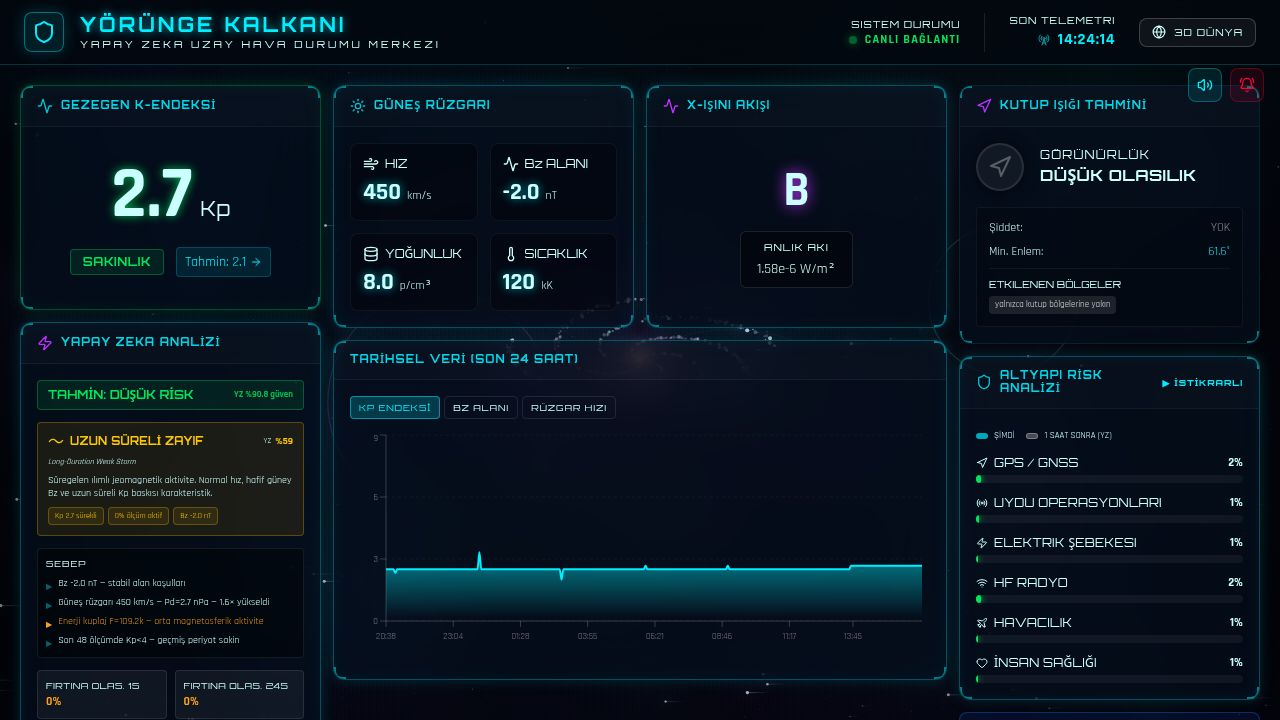
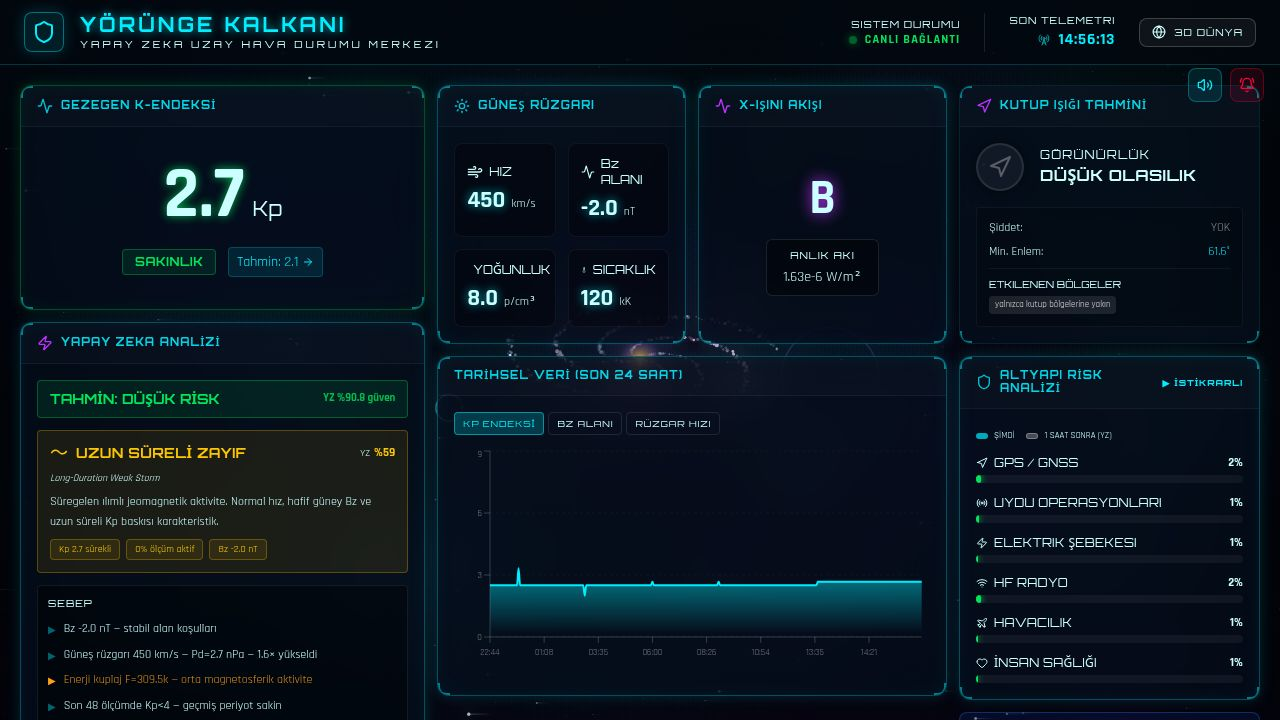
Improve readability of AI analysis panel with larger fonts and layout adjustments
Update component styling in `cards.tsx` and adjust column layout in `dashboard.tsx` to increase font sizes, spacing, and overall element visibility within the AI analysis panel.

Replit-Commit-Author: Agent
Replit-Commit-Session-Id: cfda8668-f596-4185-8b24-98a78a095a4d
Replit-Commit-Checkpoint-Type: full_checkpoint
Replit-Commit-Event-Id: 67d90009-9749-4acd-994e-57ad0d61335b
Replit-Commit-Screenshot-Url: https://storage.googleapis.com/screenshot-production-us-central1/c0614633-7700-43db-afbc-a75336ac5f31/cfda8668-f596-4185-8b24-98a78a095a4d/0QgoxcI
Replit-Helium-Checkpoint-Created: true

diff --git a/artifacts/orbitshield/src/components/dashboard/cards.tsx b/artifacts/orbitshield/src/components/dashboard/cards.tsx
@@ -459,12 +459,12 @@ function generateReasons(
 function PhysiBar({ label, pct, lvl }: { label: string; pct: number; lvl: string }) {
   const bar = lvl === "danger" ? "bg-danger" : lvl === "warning" ? "bg-warning" : "bg-success";
   return (
-    <div className="flex items-center gap-1.5">
-      <span className="text-[9px] font-mono text-muted-foreground w-[72px] shrink-0 truncate">{label}</span>
-      <div className="flex-1 h-1 bg-white/8 rounded-full overflow-hidden">
+    <div className="flex items-center gap-2">
+      <span className="text-[10px] font-mono text-muted-foreground w-[72px] shrink-0 truncate">{label}</span>
+      <div className="flex-1 h-[5px] bg-white/8 rounded-full overflow-hidden">
         <div className={cn("h-full rounded-full", bar)} style={{ width: `${Math.min(100, pct * 100)}%` }} />
       </div>
-      <span className={cn("text-[9px] font-mono w-8 text-right shrink-0",
+      <span className={cn("text-[10px] font-mono w-8 text-right shrink-0",
         lvl === "danger" ? "text-danger" : lvl === "warning" ? "text-warning" : "text-success"
       )}>{(pct * 100).toFixed(0)}%</span>
     </div>
@@ -521,45 +521,45 @@ export function AiInsightCard({
 
         {/* ── Tahmin header ────────────────────────────────────────── */}
         <div className={cn(
-          "flex items-center justify-between rounded px-2.5 py-1.5 border text-xs font-display font-bold",
+          "flex items-center justify-between rounded px-3 py-2 border text-sm font-display font-bold",
           riskHeaderColor
         )}>
           <span>TAHMİN: {riskTr(pred.riskLevel)} RİSK</span>
-          <span className="text-[9px] font-mono opacity-80">YZ %{pred.confidence ?? 91.4} güven</span>
+          <span className="text-[11px] font-mono opacity-80">YZ %{pred.confidence ?? 91.4} güven</span>
         </div>
 
         {/* ── Fırtına türü sınıflandırması ──────────────────────────── */}
         {storm && (
-          <div className={cn("rounded border p-2.5", storm.bg)}>
+          <div className={cn("rounded border p-3", storm.bg)}>
             {/* Badge row */}
-            <div className="flex items-center justify-between mb-1.5">
-              <div className="flex items-center gap-1.5">
-                <span className={cn("text-base leading-none", storm.color)}>{storm.icon}</span>
-                <span className={cn("text-[11px] font-display font-bold tracking-wide", storm.color)}>
+            <div className="flex items-center justify-between mb-2">
+              <div className="flex items-center gap-2">
+                <span className={cn("text-lg leading-none", storm.color)}>{storm.icon}</span>
+                <span className={cn("text-sm font-display font-bold tracking-wide", storm.color)}>
                   {storm.label}
                 </span>
               </div>
               <div className="flex items-center gap-1">
-                <span className="text-[8px] font-mono text-muted-foreground">YZ</span>
-                <span className={cn("text-[10px] font-mono font-bold", storm.color)}>
+                <span className="text-[10px] font-mono text-muted-foreground">YZ</span>
+                <span className={cn("text-xs font-mono font-bold", storm.color)}>
                   %{storm.confidence}
                 </span>
               </div>
             </div>
             {/* Scientific name */}
-            <div className="text-[8px] font-mono text-muted-foreground/70 mb-1.5 italic">
+            <div className="text-[10px] font-mono text-muted-foreground/70 mb-1.5 italic">
               {storm.labelEn}
             </div>
             {/* Description */}
-            <p className="text-[10px] font-mono text-muted-foreground leading-snug mb-1.5">
+            <p className="text-xs font-mono text-muted-foreground leading-relaxed mb-2">
               {storm.description}
             </p>
             {/* Key signature pills */}
             {storm.signatures.length > 0 && (
-              <div className="flex flex-wrap gap-1">
+              <div className="flex flex-wrap gap-1.5">
                 {storm.signatures.map((sig, i) => (
                   <span key={i} className={cn(
-                    "text-[8px] font-mono px-1.5 py-0.5 rounded-sm border",
+                    "text-[10px] font-mono px-2 py-0.5 rounded border",
                     storm.color, storm.bg
                   )}>
                     {sig}
@@ -572,14 +572,14 @@ export function AiInsightCard({
 
         {/* ── Sebep listesi ─────────────────────────────────────────── */}
         {reasons.length > 0 && (
-          <div className="bg-black/40 border border-white/8 rounded p-2 space-y-1">
-            <div className="text-[9px] font-display text-muted-foreground uppercase tracking-widest mb-1.5">
+          <div className="bg-black/40 border border-white/8 rounded p-2.5 space-y-1.5">
+            <div className="text-[10px] font-display text-muted-foreground uppercase tracking-widest mb-2">
               Sebep
             </div>
             {reasons.map((r, i) => (
-              <div key={i} className="flex items-start gap-1.5">
-                <span className={cn("mt-[3px] shrink-0 text-[8px]", dotColor(r.level))}>▶</span>
-                <span className={cn("text-[10px] font-mono leading-snug", textColor(r.level))}>
+              <div key={i} className="flex items-start gap-2">
+                <span className={cn("mt-[3px] shrink-0 text-[10px]", dotColor(r.level))}>▶</span>
+                <span className={cn("text-xs font-mono leading-relaxed", textColor(r.level))}>
                   {r.text}
                 </span>
               </div>
@@ -589,67 +589,69 @@ export function AiInsightCard({
 
         {/* Metrics grid — fırtına olasılıkları */}
         <div className="grid grid-cols-2 gap-2">
-          <div className="bg-white/5 border border-white/10 rounded p-2">
-            <div className="text-[9px] font-display text-muted-foreground uppercase tracking-wider mb-0.5">Fırtına Olas. 1S</div>
-            <div className="text-xs font-bold font-mono text-warning">{pred.stormProbability1h ?? 0}%</div>
+          <div className="bg-white/5 border border-white/10 rounded p-2.5">
+            <div className="text-[10px] font-display text-muted-foreground uppercase tracking-wider mb-1">Fırtına Olas. 1S</div>
+            <div className="text-sm font-bold font-mono text-warning">{pred.stormProbability1h ?? 0}%</div>
           </div>
-          <div className="bg-white/5 border border-white/10 rounded p-2">
-            <div className="text-[9px] font-display text-muted-foreground uppercase tracking-wider mb-0.5">Fırtına Olas. 24S</div>
-            <div className="text-xs font-bold font-mono text-warning">{pred.stormProbability24h ?? 0}%</div>
+          <div className="bg-white/5 border border-white/10 rounded p-2.5">
+            <div className="text-[10px] font-display text-muted-foreground uppercase tracking-wider mb-1">Fırtına Olas. 24S</div>
+            <div className="text-sm font-bold font-mono text-warning">{pred.stormProbability24h ?? 0}%</div>
           </div>
         </div>
 
-        {/* Physics Engine block — 4 F variants */}
+        {/* Physics Engine block */}
         {phy && (
-          <div className="bg-black/40 border border-accent/20 rounded p-2 space-y-1.5">
+          <div className="bg-black/40 border border-accent/20 rounded p-3 space-y-2">
             {/* Header row */}
-            <div className="flex items-center justify-between mb-1">
-              <span className="text-[9px] font-display text-accent/80 uppercase tracking-widest">Fizik Motoru</span>
-              <div className="flex items-center gap-1">
-                <span className="text-[8px] font-mono text-accent/60 border border-accent/30 rounded px-1">
+            <div className="flex items-center justify-between">
+              <span className="text-[10px] font-display text-accent/80 uppercase tracking-widest">Fizik Motoru</span>
+              <div className="flex items-center gap-1.5">
+                <span className="text-[9px] font-mono text-accent/60 border border-accent/30 rounded px-1.5 py-0.5">
                   {phy.fLabel}
                 </span>
-                <span className={cn("text-[9px] font-mono font-bold",
+                <span className={cn("text-xs font-mono font-bold",
                   phy.fLvl === "danger" ? "text-danger" : phy.fLvl === "warning" ? "text-warning" : "text-success"
                 )}>{phy.fmtF}</span>
               </div>
             </div>
 
-            {/* F variants mini-table — F_final aktif (birleşik nihai formül) */}
-            {[
-              { label: "F_final", v: phy.F_final, note: "nihai" },
-              { label: "F_new",   v: phy.F_new,   note: "temel" },
-              { label: "F_şok",   v: phy.F_shock, note: `dPd=${phy.dPddt > 0 ? "+" : ""}${phy.dPddt.toFixed(1)}` },
-              { label: "F_adv",   v: phy.F_advanced, note: `d²Bz=${phy.d2Bzdt2.toFixed(1)}` },
-              { label: "F_CME",   v: phy.F_CME,   note: `Şok×${phy.shockP.toFixed(1)}` },
-            ].map(({ label, v, note }) => {
-              const fmtV = v >= 1e6 ? (v/1e6).toFixed(2)+"M" : v >= 1e3 ? (v/1e3).toFixed(1)+"k" : v.toFixed(0);
-              const logPct = Math.min(100, Math.log10(Math.max(v, 1)) / Math.log10(2e6) * 100);
-              const active = label === "F_final";
-              const lvlColor = v < 80_000 ? "bg-success" : v < 400_000 ? "bg-warning" : "bg-danger";
-              const txtColor = v < 80_000 ? "text-success" : v < 400_000 ? "text-warning" : "text-danger";
-              return (
-                <div key={label} className={cn(
-                  "flex items-center gap-1.5 rounded px-1",
-                  active ? "bg-accent/10 outline outline-[0.5px] outline-accent/40" : ""
-                )}>
-                  <span className={cn("text-[8px] font-mono w-[42px] shrink-0", active ? "text-accent font-bold" : "text-muted-foreground/55")}>
-                    {label}
-                  </span>
-                  <div className="flex-1 h-[3px] bg-white/8 rounded-full overflow-hidden">
-                    <div className={cn("h-full rounded-full", active ? lvlColor : "bg-white/20")} style={{ width: `${logPct}%` }} />
+            {/* F variants mini-table */}
+            <div className="space-y-1">
+              {[
+                { label: "F_final", v: phy.F_final, note: "nihai" },
+                { label: "F_new",   v: phy.F_new,   note: "temel" },
+                { label: "F_şok",   v: phy.F_shock, note: `dPd${phy.dPddt > 0 ? "+" : ""}${phy.dPddt.toFixed(1)}` },
+                { label: "F_adv",   v: phy.F_advanced, note: `d²Bz=${phy.d2Bzdt2.toFixed(1)}` },
+                { label: "F_CME",   v: phy.F_CME,   note: `Şok×${phy.shockP.toFixed(1)}` },
+              ].map(({ label, v, note }) => {
+                const fmtV = v >= 1e6 ? (v/1e6).toFixed(2)+"M" : v >= 1e3 ? (v/1e3).toFixed(1)+"k" : v.toFixed(0);
+                const logPct = Math.min(100, Math.log10(Math.max(v, 1)) / Math.log10(2e6) * 100);
+                const active = label === "F_final";
+                const lvlColor = v < 80_000 ? "bg-success" : v < 400_000 ? "bg-warning" : "bg-danger";
+                const txtColor = v < 80_000 ? "text-success" : v < 400_000 ? "text-warning" : "text-danger";
+                return (
+                  <div key={label} className={cn(
+                    "flex items-center gap-2 rounded px-1.5 py-0.5",
+                    active ? "bg-accent/10 outline outline-[0.5px] outline-accent/40" : ""
+                  )}>
+                    <span className={cn("text-[10px] font-mono w-[46px] shrink-0", active ? "text-accent font-bold" : "text-muted-foreground/55")}>
+                      {label}
+                    </span>
+                    <div className="flex-1 h-1 bg-white/8 rounded-full overflow-hidden">
+                      <div className={cn("h-full rounded-full", active ? lvlColor : "bg-white/20")} style={{ width: `${logPct}%` }} />
+                    </div>
+                    <span className={cn("text-[10px] font-mono w-9 text-right shrink-0", active ? txtColor : "text-muted-foreground/45")}>
+                      {fmtV}
+                    </span>
+                    <span className="text-[8px] font-mono text-muted-foreground/35 w-[54px] text-right shrink-0 truncate">{note}</span>
                   </div>
-                  <span className={cn("text-[8px] font-mono w-8 text-right shrink-0", active ? txtColor : "text-muted-foreground/45")}>
-                    {fmtV}
-                  </span>
-                  <span className="text-[7px] font-mono text-muted-foreground/35 w-[52px] text-right shrink-0 truncate">{note}</span>
-                </div>
-              );
-            })}
+                );
+              })}
+            </div>
 
-            {/* En Etkili Faktörler — katkı barları */}
-            <div className="border-t border-accent/15 pt-1.5 mt-0.5">
-              <div className="text-[8px] font-display text-accent/60 uppercase tracking-widest mb-1">En Etkili Faktörler</div>
+            {/* En Etkili Faktörler */}
+            <div className="border-t border-accent/15 pt-2">
+              <div className="text-[10px] font-display text-accent/60 uppercase tracking-widest mb-1.5">En Etkili Faktörler</div>
               {(() => {
                 const factors = [
                   {
@@ -672,37 +674,30 @@ export function AiInsightCard({
                   },
                   {
                     label: `t_Bz<0 = ${phy.tBzNeg < 1 ? `${(phy.tBzNeg*60).toFixed(0)}dk` : `${phy.tBzNeg.toFixed(1)}s`}`,
-                    note: "negatif Bz süresi",
+                    note: "neg. Bz süresi",
                     pct: Math.min(1, phy.tBzNeg / 6),
                     color: phy.tBzNeg > 3 ? "bg-danger" : phy.tBzNeg > 1 ? "bg-warning" : "bg-success",
                   },
                 ].sort((a, b) => b.pct - a.pct);
                 return factors.map((f, i) => (
-                  <div key={i} className="flex items-center gap-1.5 mb-[3px]">
-                    <span className="text-[7px] font-mono text-muted-foreground/60 w-[90px] shrink-0 truncate">{f.label}</span>
+                  <div key={i} className="flex items-center gap-2 mb-1">
+                    <span className="text-[10px] font-mono text-muted-foreground/70 w-[100px] shrink-0 truncate">{f.label}</span>
                     <div className="flex-1 h-[5px] bg-white/8 rounded-full overflow-hidden">
                       <div className={cn("h-full rounded-full transition-all", f.color)} style={{ width: `${f.pct * 100}%` }} />
                     </div>
-                    <span className="text-[7px] font-mono text-muted-foreground/45 w-[26px] text-right shrink-0">{(f.pct*100).toFixed(0)}%</span>
-                    <span className="text-[6px] font-mono text-muted-foreground/30 w-[50px] text-right shrink-0 truncate">{f.note}</span>
+                    <span className="text-[10px] font-mono text-muted-foreground/60 w-7 text-right shrink-0">{(f.pct*100).toFixed(0)}%</span>
+                    <span className="text-[9px] font-mono text-muted-foreground/35 w-[56px] text-right shrink-0 truncate">{f.note}</span>
                   </div>
                 ));
               })()}
             </div>
 
-            {/* t_{Bz<0} info line */}
-            <div className="text-[7px] font-mono text-muted-foreground/50 pt-0.5">
-              t_Bz&lt;0={phy.tBzNeg < 1 ? `${(phy.tBzNeg*60).toFixed(0)}dk` : `${phy.tBzNeg.toFixed(1)}s`}
-              {" · "}dBz={phy.dBzdt.toFixed(1)} nT/5dk
-              {" · "}ln(t)={Math.log(1+Math.max(phy.tBzNeg,0.05)).toFixed(2)}
-            </div>
-
             {/* GPS / SAT risk */}
-            <div className="border-t border-white/5 pt-1 space-y-1">
+            <div className="border-t border-white/5 pt-2 space-y-1.5">
               <PhysiBar label="GPSrisk" pct={phy.gpsR} lvl={phy.gLvl} />
               <PhysiBar label="SATrisk" pct={phy.satR} lvl={phy.sLvl} />
             </div>
-            <div className="text-[7px] font-mono text-muted-foreground/40 leading-relaxed">
+            <div className="text-[8px] font-mono text-muted-foreground/40 leading-relaxed">
               GPS=0.5·|Bz|/20+0.3·V/1k+0.2·Kp/9 · SAT=0.4·Pd/50+0.4·Fp/1k+0.2·|Dst|/200
             </div>
           </div>
@@ -710,7 +705,7 @@ export function AiInsightCard({
 
         {/* Kp Tahmin sırası */}
         <div className="bg-black/30 border border-white/5 rounded p-2">
-          <div className="text-[9px] font-display text-muted-foreground uppercase tracking-wider mb-1.5">Kp Tahmini</div>
+          <div className="text-[10px] font-display text-muted-foreground uppercase tracking-wider mb-1.5">Kp Tahmini</div>
           <div className="flex gap-3">
             {[
               { label: "1 Saat", val: pred.kpPredicted1h },
@@ -718,8 +713,8 @@ export function AiInsightCard({
               { label: "6 Saat", val: (pred as any).kpPredicted6h },
             ].map((p, i) => p.val != null && (
               <div key={i} className="flex-1 text-center">
-                <div className="text-[9px] font-display text-muted-foreground">{p.label}</div>
-                <div className={cn("text-sm font-mono font-bold",
+                <div className="text-[10px] font-display text-muted-foreground">{p.label}</div>
+                <div className={cn("text-base font-mono font-bold",
                   p.val >= 6 ? "text-danger" : p.val >= 4 ? "text-warning" : "text-success"
                 )}>{p.val.toFixed(1)}</div>
               </div>
@@ -729,10 +724,10 @@ export function AiInsightCard({
 
         {/* Trend & Anomali */}
         <div className="flex items-center justify-between">
-          <span className={cn("text-[10px] font-display font-bold", trendClr(pred.trend))}>
+          <span className={cn("text-xs font-display font-bold", trendClr(pred.trend))}>
             {trendTr(pred.trend)}
           </span>
-          <span className="text-[9px] font-display text-muted-foreground">YZ %91.4 Doğruluk</span>
+          <span className="text-[10px] font-display text-muted-foreground">YZ %91.4 Doğruluk</span>
         </div>
 
         {pred.anomalyDetected && (

diff --git a/artifacts/orbitshield/src/pages/dashboard.tsx b/artifacts/orbitshield/src/pages/dashboard.tsx
@@ -194,8 +194,8 @@ export default function Dashboard() {
           {/* TOP 3-COLUMN GRID */}
           <div className="grid grid-cols-1 md:grid-cols-2 lg:grid-cols-12 gap-3">
 
-            {/* LEFT COLUMN */}
-            <div className="lg:col-span-3 flex flex-col gap-3">
+            {/* LEFT COLUMN — AI analiz paneli için genişletildi */}
+            <div className="lg:col-span-4 flex flex-col gap-3">
               <KpCard data={current} pred={prediction} />
               <AiInsightCard pred={prediction} data={current} history={history} />
               
@@ -228,7 +228,7 @@ export default function Dashboard() {
             </div>
 
             {/* CENTER COLUMN */}
-            <div className="lg:col-span-6 flex flex-col gap-3">
+            <div className="lg:col-span-5 flex flex-col gap-3">
               <div className="grid grid-cols-1 sm:grid-cols-2 gap-3">
                 <SolarWindCard data={current} />
                 <XRayCard data={current} />
